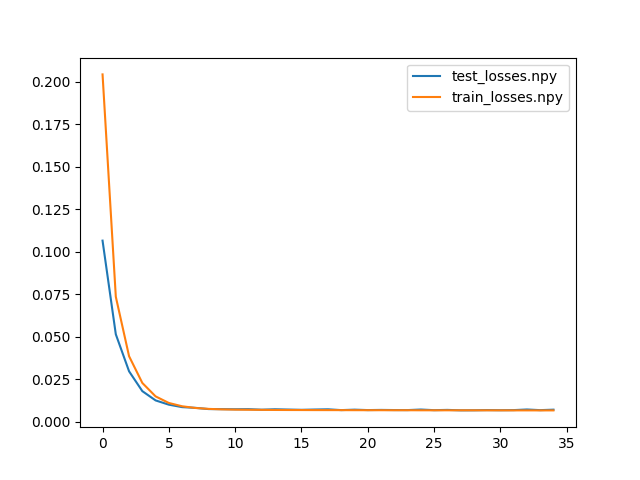
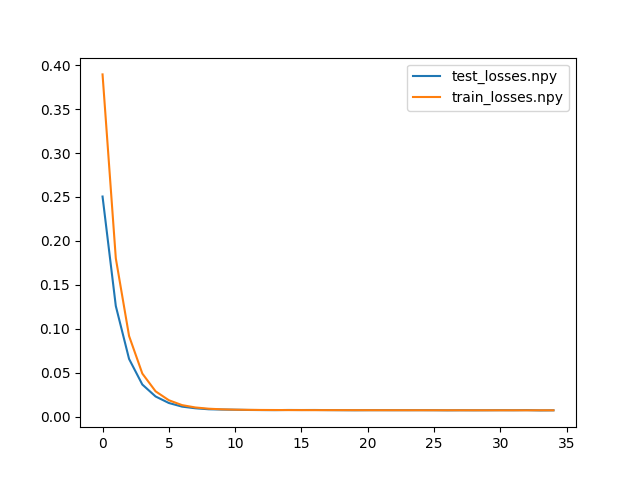
changes for training under over classification

diff --git a/src/dataset.py b/src/dataset.py
@@ -477,7 +477,7 @@ class KeypointsDataset(Dataset):
                 img[:, :, 0] = self.draw_spline(img, condition_pixels[:, 1], condition_pixels[:, 0], label=True) #* cable_mask
             else:
                 img[:, :, 0] = gauss_2d_batch_efficient_np(self.crop_span, self.crop_span, self.gauss_sigma, condition_pixels[:-self.pred_len,0], condition_pixels[:-self.pred_len,1], weights=self.weights)
-            if self.real_world:
+            if is_real_example:
                 img = img[1:, 1:, :]
                 img = cv2.resize(img, (2*self.crop_width, 2*self.crop_width))
             img, _= self.rotate_condition(img, condition_pixels, center_around_last=True, index=data_index)
@@ -544,54 +544,42 @@ if __name__ == '__main__':
     os.mkdir(os.path.join(dataset_test_path, 'under'))
     os.mkdir(os.path.join(dataset_test_path, 'over'))
     os.mkdir(os.path.join(dataset_test_path, 'none'))
-    # UNDER OVER
-    test_config = UNDER_OVER_NONE()
-    # test_dataset = KeypointsDataset('/home/vainavi/hulk-keypoints/processed_sim_data/under_over_none2/test',
-    #                                 transform, 
-    #                                 augment=True, 
-    #                                 config=test_config)
 
-    test_dataset = KeypointsDataset('/home/mkparu/hulk-keypoints/processed_sim_data/under_over_none2test',
+    # UNDER OVER
+    test_config = UNDER_OVER()
+    test_dataset = KeypointsDataset(['/home/vainavi/hulk-keypoints/processed_sim_data/under_over_centered_hard2/test'],
                                     transform, 
                                     augment=True, 
                                     config=test_config)
     test_data = DataLoader(test_dataset, batch_size=1, shuffle=True, num_workers=1)
 
-    # UNDER OVER
-    # test_config = UNDER_OVER_NONE()
-    # test_dataset = KeypointsDataset('/home/vainavi/hulk-keypoints/processed_sim_data/under_over_none2/test',
-    #                                 transform, 
-    #                                 augment=True, 
-    #                                 config=test_config)
-    # test_data = DataLoader(test_dataset, batch_size=1, shuffle=True, num_workers=1)
-
-    # for i_batch, sample_batched in enumerate(test_data):
-    #     print(i_batch)
-    #     img, label = sample_batched
-    #     label = int(label.detach().squeeze().cpu().numpy().item())
-    #     img = img.squeeze(0)
-    #     img = (img.cpu().detach().numpy().transpose(1, 2, 0) * 255)
-    #     if label == 0:
-    #         cv2.imwrite(f'./dataset_py_test/under/test-img_{i_batch:05d}.png', img[...,::-1])
-    #     elif label == 1:
-    #         cv2.imwrite(f'./dataset_py_test/over/test-img_{i_batch:05d}.png', img[...,::-1])
-    #     else:
-    #         cv2.imwrite(f'./dataset_py_test/none/test-img_{i_batch:05d}.png', img[...,::-1])
+    for i_batch, sample_batched in enumerate(test_data):
+        print(i_batch)
+        img, label = sample_batched
+        label = int(label.detach().squeeze().cpu().numpy().item())
+        img = img.squeeze(0)
+        img = (img.cpu().detach().numpy().transpose(1, 2, 0) * 255)
+        if label == 0:
+            cv2.imwrite(f'./dataset_py_test/under/test-img_{i_batch:05d}.png', img[...,::-1])
+        elif label == 1:
+            cv2.imwrite(f'./dataset_py_test/over/test-img_{i_batch:05d}.png', img[...,::-1])
+        else:
+            cv2.imwrite(f'./dataset_py_test/none/test-img_{i_batch:05d}.png', img[...,::-1])
 
 
     # TRACE PREDICTION
-    test_config = TRCR32_CL3_12_PL1_MED3_UNet34_B64_OS_RotCond_Hard2_Medley_MoreReal_Sharp() #TRCR32_CL3_12_PL1_RotCond_Sharp_Hard2_WReal()
-    test_dataset2 = KeypointsDataset([os.path.join(dir, 'test') for dir in test_config.dataset_dir],
-                                    transform,
-                                    augment=False, 
-                                    config=test_config)
-    test_data = DataLoader(test_dataset2, batch_size=1, shuffle=True, num_workers=1)
-    for i_batch, sample_batched in enumerate(test_data):
-        print(i_batch)
-        img, gauss = sample_batched
-        gauss = gauss.squeeze(0)
-        img = img.squeeze(0)
-        vis_gauss(img, gauss, i_batch)
+    # test_config = TRCR32_CL3_12_PL1_MED3_UNet34_B64_OS_RotCond_Hard2_Medley_MoreReal_Sharp() #TRCR32_CL3_12_PL1_RotCond_Sharp_Hard2_WReal()
+    # test_dataset2 = KeypointsDataset([os.path.join(dir, 'test') for dir in test_config.dataset_dir],
+    #                                 transform,
+    #                                 augment=False, 
+    #                                 config=test_config)
+    # test_data = DataLoader(test_dataset2, batch_size=1, shuffle=True, num_workers=1)
+    # for i_batch, sample_batched in enumerate(test_data):
+    #     print(i_batch)
+    #     img, gauss = sample_batched
+    #     gauss = gauss.squeeze(0)
+    #     img = img.squeeze(0)
+    #     vis_gauss(img, gauss, i_batch)
 
 
     # # TRACE PREDICTION
@@ -616,24 +604,3 @@ if __name__ == '__main__':
     #     gauss = gauss.squeeze(0)
     #     img = img.squeeze(0)
     #     vis_gauss(img, gauss, i_batch)
-    
-    # CAGE PINCH PREDICTION
-    # test_config = CAP600()
-    # test_dataset3 = KeypointsDataset('/home/mkparu/rope-rendering/data_processing/post_processed_sim_data/crop_cage_pinch_dataset/train',
-    #                                 test_config.img_height,
-    #                                 test_config.img_width,
-    #                                 transform,
-    #                                 gauss_sigma=test_config.gauss_sigma, 
-    #                                 augment=True, 
-    #                                 condition_len=test_config.condition_len, 
-    #                                 crop_width=test_config.crop_width, 
-    #                                 spacing=test_config.cond_point_dist_px,
-    #                                 expt_type=test_config.expt_type, 
-    #                                 pred_len=test_config.pred_len)
-    # test_data3 = DataLoader(test_dataset3, batch_size=1, shuffle=True, num_workers=1)
-    # for i_batch, sample_batched in enumerate(test_data3):
-    #     print(i_batch)
-    #     img, gauss = sample_batched
-    #     gauss = gauss.squeeze(0)
-    #     img = img.squeeze(0)
-    #     vis_gauss_input_output(img, gauss, i_batch)

diff --git a/src/crossing_detector_gen.py b/src/crossing_detector_gen.py
@@ -15,21 +15,12 @@ DIST_THRESH = 0.1
 NOT_CROSSING_THRESH = 10
 COS_ANGLE_THRESH = 0.85
 
-input_file_path = '/home/kaushiks/hulk-keypoints/processed_sim_data/trace_dataset_hard_1/test/'
-
-
-#vainavi dataset
-#train: 47263 , test: 1029
-# out_file_path = '/home/vainavi/hulk-keypoints/processed_sim_data/under_over_none2/test'
-
-#train: 48394, test: 1182
-#new dataset (with crossings w line seg, no extra crop filter and no cos angle)
-#train: 48394, test: 1182
-# out_file_path = '/home/mkparu/hulk-keypoints/processed_sim_data/under_over_none2/test'
+input_file_path = '/home/kaushiks/hulk-keypoints/processed_sim_data/trace_dataset_hard_2/train/'
 
 #newest dataset w new crossing gen and filters
 #train: 48132 , test: 1669
-out_file_path = '/home/mkparu/hulk-keypoints/processed_sim_data/under_over_none_with_filter2/train'
+out_file_path = '/home/vainavi/hulk-keypoints/processed_sim_data/under_over_centered_hard2/train'
+limit = 10000 # for test, for train 5000 per
 
 
 #calculates the cosine angle between two line segments
@@ -57,7 +48,14 @@ if not os.path.exists(out_file_path):
     os.makedirs(out_file_path)
 
 files = os.listdir(input_file_path)
+under_done = False
+over_done = False
+num_under = 0
+num_over = 0
+num_none = 0
 for file in files:
+    if under_done and over_done:
+        break
     print(file)
     if not file.endswith('.npy'):
         continue
@@ -153,59 +151,65 @@ for file in files:
     # cv2.imwrite(output_vis_dir + file_name + '.png', data_img)
 
     ################### Get not crossings
-    num_crossings = len(crossings)
-    non_crossing_info = np.zeros((pixels.shape[0], 2), dtype=np.int32) - 1 
-    for i, point in enumerate(pixels):
-        part1 = pixels[0:max(0, i-NUM_STEPS_MIN_FOR_CROSSING)]
-        part2 = pixels[min(i+NUM_STEPS_MIN_FOR_CROSSING, len(pixels)):]
-        if part1.shape[0] == 0:
-            pixels_all = part2
-        elif part2.shape[0] == 0:
-            pixels_all = part1
-        else:
-            pixels_all = np.vstack((part1, part2))
-        min_dist_all, argmin_pt_all = np.min(np.linalg.norm(pixels_all - point, axis=1)), np.argmin(np.linalg.norm(pixels_all - point, axis=1), axis=0)
-        if min_dist_all > NOT_CROSSING_THRESH:
-            non_crossing_info[i] = [argmin_pt_all, (2)] #2 = neither under or over
+    # num_crossings = len(crossings)
+    # non_crossing_info = np.zeros((pixels.shape[0], 2), dtype=np.int32) - 1 
+    # for i, point in enumerate(pixels):
+    #     part1 = pixels[0:max(0, i-NUM_STEPS_MIN_FOR_CROSSING)]
+    #     part2 = pixels[min(i+NUM_STEPS_MIN_FOR_CROSSING, len(pixels)):]
+    #     if part1.shape[0] == 0:
+    #         pixels_all = part2
+    #     elif part2.shape[0] == 0:
+    #         pixels_all = part1
+    #     else:
+    #         pixels_all = np.vstack((part1, part2))
+    #     min_dist_all, argmin_pt_all = np.min(np.linalg.norm(pixels_all - point, axis=1)), np.argmin(np.linalg.norm(pixels_all - point, axis=1), axis=0)
+    #     if min_dist_all > NOT_CROSSING_THRESH:
+    #         non_crossing_info[i] = [argmin_pt_all, (2)] #2 = neither under or over
 
-    spans = []
-    cur_span = None
-    for i, crossing in enumerate(non_crossing_info):
-        if crossing[0] != -1:
-            if cur_span is None:
-                cur_span = [i]
-            else:
-                cur_span.append(i)
-        else:
-            if cur_span is not None:
-                spans.append(cur_span)
-                cur_span = None
-    num_non_crossings = 0
-    for span in spans:
-        if num_non_crossings > int(num_crossings/2.5):
-            break
-        crossings.append(np.median(span))
-        num_non_crossings += 1
+    # spans = []
+    # cur_span = None
+    # for i, crossing in enumerate(non_crossing_info):
+    #     if crossing[0] != -1:
+    #         if cur_span is None:
+    #             cur_span = [i]
+    #         else:
+    #             cur_span.append(i)
+    #     else:
+    #         if cur_span is not None:
+    #             spans.append(cur_span)
+    #             cur_span = None
+    # num_non_crossings = 0
+    # for span in spans:
+    #     if num_non_crossings > int(num_crossings/2.5):
+    #         break
+    #     crossings.append(np.median(span))
+    #     num_non_crossings += 1
     ###################
     
     # save the crossings
     crossings_dicts = []
-    num_under = 0
-    num_over = 0
-    num_none = 0
     for crossing in crossings:
         crossing_pixel = pixels[int(crossing)]
         crossing_dict = {}
-        crossing_dict['under_over'] = crossing_info[int(crossing)][1]
-        if crossing_dict['under_over'] == -1:
-            crossing_dict['under_over'] = non_crossing_info[int(crossing)][1]
-        uon = crossing_dict['under_over']
+        # if crossing_dict['under_over'] == -1:
+        #     crossing_dict['under_over'] = non_crossing_info[int(crossing)][1]
+        uon = crossing_info[int(crossing)][1]
         if uon == 0:
+            if num_under > limit:
+                under_done = True
+                continue
             num_under += 1
         elif uon == 1:
+            if num_over > limit:
+                over_done = True
+                continue
             num_over += 1
         elif uon == 2:
+            if num_none > limit:
+                continue
             num_none += 1
+
+        crossing_dict['under_over'] = uon
 
         crop_size = 10
 
@@ -274,9 +278,9 @@ for file in files:
         crossing_dict['spline_pixels'] = spline_pixels
         crossings_dicts.append(crossing_dict)
 
-    # print("under: ", num_under)
-    # print("over: ", num_over)
-    # print("none: ", num_none)
+    print("under: ", num_under)
+    print("over: ", num_over)
+    print("none: ", num_none)
 
     # find all contiguous segments in crossing info
     for i, crossing in enumerate(crossings_dicts):

diff --git a/config.py b/config.py
@@ -24,7 +24,7 @@ def get_dataset_dir(expt_type):
     elif expt_type == ExperimentTypes.CAGE_PREDICTION:
         return '/home/mkparu/rope-rendering/data_processing/post_processed_sim_data/crop_cage_pinch_dataset'
     elif expt_type == ExperimentTypes.CLASSIFY_OVER_UNDER:
-        return '/home/vainavi/hulk-keypoints/processed_sim_data/under_over_crossing_set2'
+        return '/home/vainavi/hulk-keypoints/processed_sim_data/under_over_centered_hard2'
     elif expt_type == ExperimentTypes.CLASSIFY_OVER_UNDER_NONE:
         # return '/home/vainavi/hulk-keypoints/processed_sim_data/under_over_none2'
         return '/home/mkparu/hulk-keypoints/processed_sim_data/under_over_none2'
@@ -793,7 +793,7 @@ class TRCR32_CL3_12_PL1_MED3_UNet34_B64_OS_RotCond_Hard2_Medley_Sharp_HW64(BaseC
     sharpen: bool = True
 
 @dataclass
-class UNDER_OVER(BaseConfig):
+class UNDER_OVER_RNet50(BaseConfig):
     expt_type: str = ExperimentTypes.CLASSIFY_OVER_UNDER
     dataset_dir: str = field(default_factory=lambda: [get_dataset_dir(ExperimentTypes.CLASSIFY_OVER_UNDER)])
     classes: int = 1
@@ -812,6 +812,73 @@ class UNDER_OVER(BaseConfig):
     resnet_type: str = '50'
     pretrained: bool = False
     rot_cond: bool = True
+    sharpen: bool = True
+
+@dataclass
+class UNDER_OVER_RNet34(BaseConfig):
+    expt_type: str = ExperimentTypes.CLASSIFY_OVER_UNDER
+    dataset_dir: str = field(default_factory=lambda: [get_dataset_dir(ExperimentTypes.CLASSIFY_OVER_UNDER)])
+    classes: int = 1
+    img_height: int = 20
+    img_width: int = 20
+    crop_width: int = 10
+    num_keypoints: int = 1
+    gauss_sigma: int = 2
+    epochs: int = 50
+    batch_size: int = 4
+    cond_point_dist_px: int = 20
+    condition_len: int = 5
+    pred_len: int = 0
+    eval_checkpoint_freq: int = 1
+    min_checkpoint_freq: int = 10
+    resnet_type: str = '34'
+    pretrained: bool = False
+    rot_cond: bool = True
+    sharpen: bool = True
+
+@dataclass
+class UNDER_OVER_UNet34(BaseConfig):
+    expt_type: str = ExperimentTypes.CLASSIFY_OVER_UNDER
+    dataset_dir: str = field(default_factory=lambda: [get_dataset_dir(ExperimentTypes.CLASSIFY_OVER_UNDER)])
+    classes: int = 1
+    img_height: int = 20
+    img_width: int = 20
+    crop_width: int = 10
+    num_keypoints: int = 1
+    gauss_sigma: int = 2
+    epochs: int = 50
+    batch_size: int = 4
+    cond_point_dist_px: int = 20
+    condition_len: int = 5
+    pred_len: int = 0
+    eval_checkpoint_freq: int = 1
+    min_checkpoint_freq: int = 10
+    resnet_type: str = 'UNet34'
+    pretrained: bool = False
+    rot_cond: bool = True
+    sharpen: bool = True
+
+@dataclass
+class UNDER_OVER_UNet50(BaseConfig):
+    expt_type: str = ExperimentTypes.CLASSIFY_OVER_UNDER
+    dataset_dir: str = field(default_factory=lambda: [get_dataset_dir(ExperimentTypes.CLASSIFY_OVER_UNDER)])
+    classes: int = 1
+    img_height: int = 20
+    img_width: int = 20
+    crop_width: int = 10
+    num_keypoints: int = 1
+    gauss_sigma: int = 2
+    epochs: int = 50
+    batch_size: int = 4
+    cond_point_dist_px: int = 20
+    condition_len: int = 5
+    pred_len: int = 0
+    eval_checkpoint_freq: int = 1
+    min_checkpoint_freq: int = 10
+    resnet_type: str = 'UNet50'
+    pretrained: bool = False
+    rot_cond: bool = True
+    sharpen: bool = True
 
 @dataclass
 class UNDER_OVER_NONE(BaseConfig):
@@ -875,7 +942,10 @@ TRCR28_CL3_8_PL1_MED3_UNet50_B64_OS_RotCond_Medley_MoreReal_Sharp,
 TRCR32_CL3_12_UNet34_B64_OS_Medley_015Real_Sharp,
 TRCR32_CL3_12_UNet34_B64_OS_Medley_01Real_Sharp,
 TRCR32_CL3_12_PL1_MED3_UNet50_B64_OS_RotCond_Hard2_Medley_02Real_Sharp,
-UNDER_OVER,
+UNDER_OVER_RNet50,
+UNDER_OVER_RNet34,
+UNDER_OVER_UNet34,
+UNDER_OVER_UNet50,
 UNDER_OVER_NONE]
 
 ALL_EXPERIMENTS_CONFIG = {get_class_name(expt): expt for expt in ALL_EXPERIMENTS_LIST}

diff --git a/analyze_loss.py b/analyze_loss.py
@@ -16,8 +16,8 @@ import os
 # plt.savefig("losses.png")
 
 # npy file-based method
-files_to_inspect = ['/home/vainavi/hulk-keypoints/checkpoints/2023-01-13-23-02-52_TRCR28_CL3_8_PL1_MED3_UNet50_B64_OS_RotCond_Medley_MoreReal_Sharp/test_losses.npy', 
-                    '/home/vainavi/hulk-keypoints/checkpoints/2023-01-13-23-02-52_TRCR28_CL3_8_PL1_MED3_UNet50_B64_OS_RotCond_Medley_MoreReal_Sharp/train_losses.npy']
+files_to_inspect = ['/home/vainavi/hulk-keypoints/checkpoints/2023-01-14-19-39-06_TRCR32_CL3_12_PL1_MED3_UNet50_B64_OS_RotCond_Hard2_Medley_02Real_Sharp/test_losses.npy', 
+                    '/home/vainavi/hulk-keypoints/checkpoints/2023-01-14-19-39-06_TRCR32_CL3_12_PL1_MED3_UNet50_B64_OS_RotCond_Hard2_Medley_02Real_Sharp/train_losses.npy']
 losses = [np.load(file_to_inspect) for file_to_inspect in files_to_inspect]
 
 # smooth losses

diff --git a/analysis.py b/analysis.py
@@ -417,7 +417,7 @@ else:
             plt.imshow(overlay)
 
             save_path = os.path.join(failure_folder_name, f'output_img_{i}.png')
-            if np.linalg.norm((np.array(argmax_yx) - np.array(output_yx)), 2) < 5*(8.0/12): #*(config.img_height/96.0):
+            if np.linalg.norm((np.array(argmax_yx) - np.array(output_yx)), 2) < 5: #*(config.img_height/96.0):
                 hits += 1
                 save_path = os.path.join(success_folder_name, f'output_img_{i}.png')
             plt.savefig(save_path)
